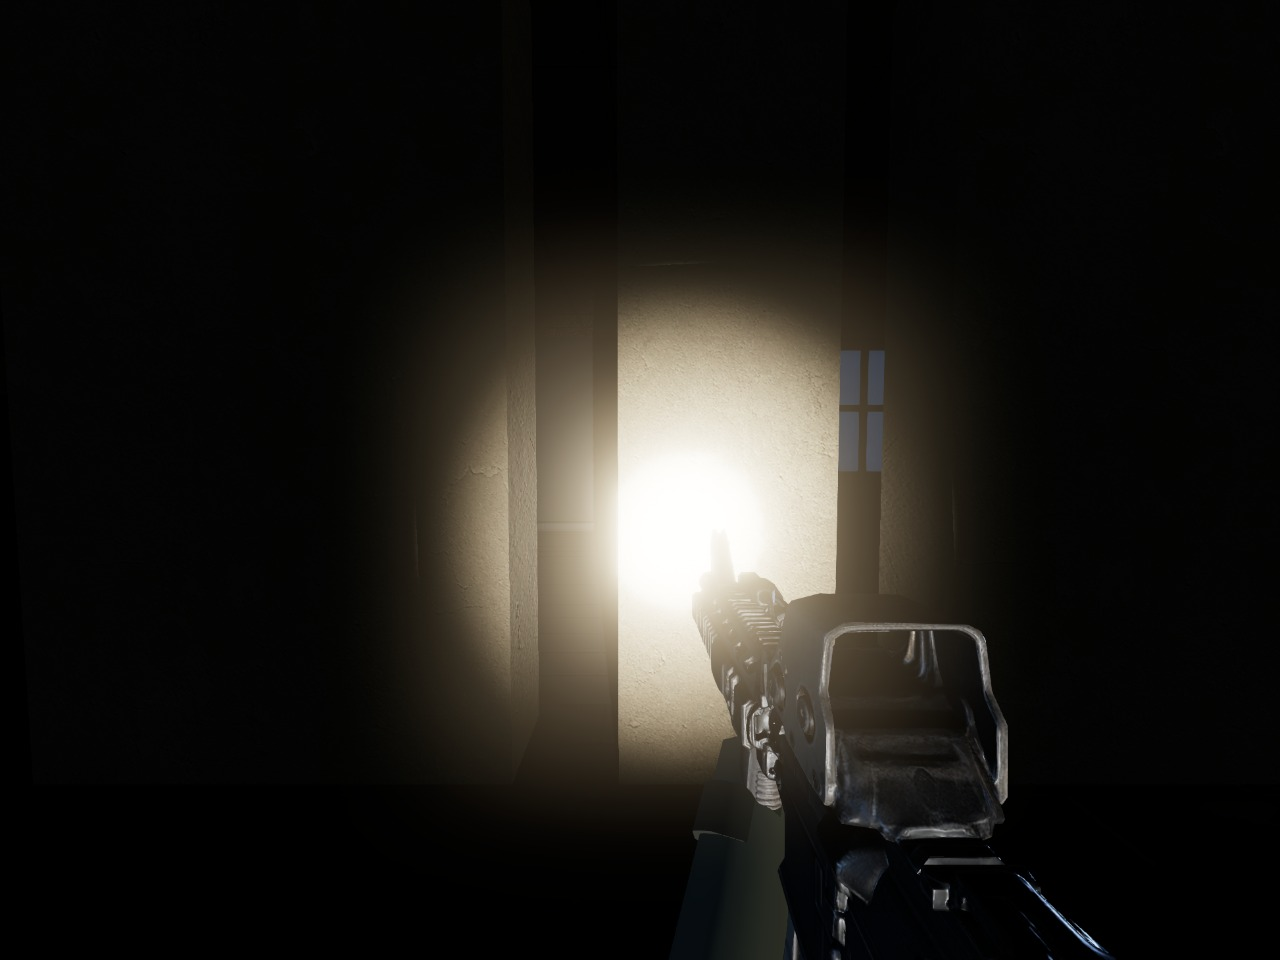
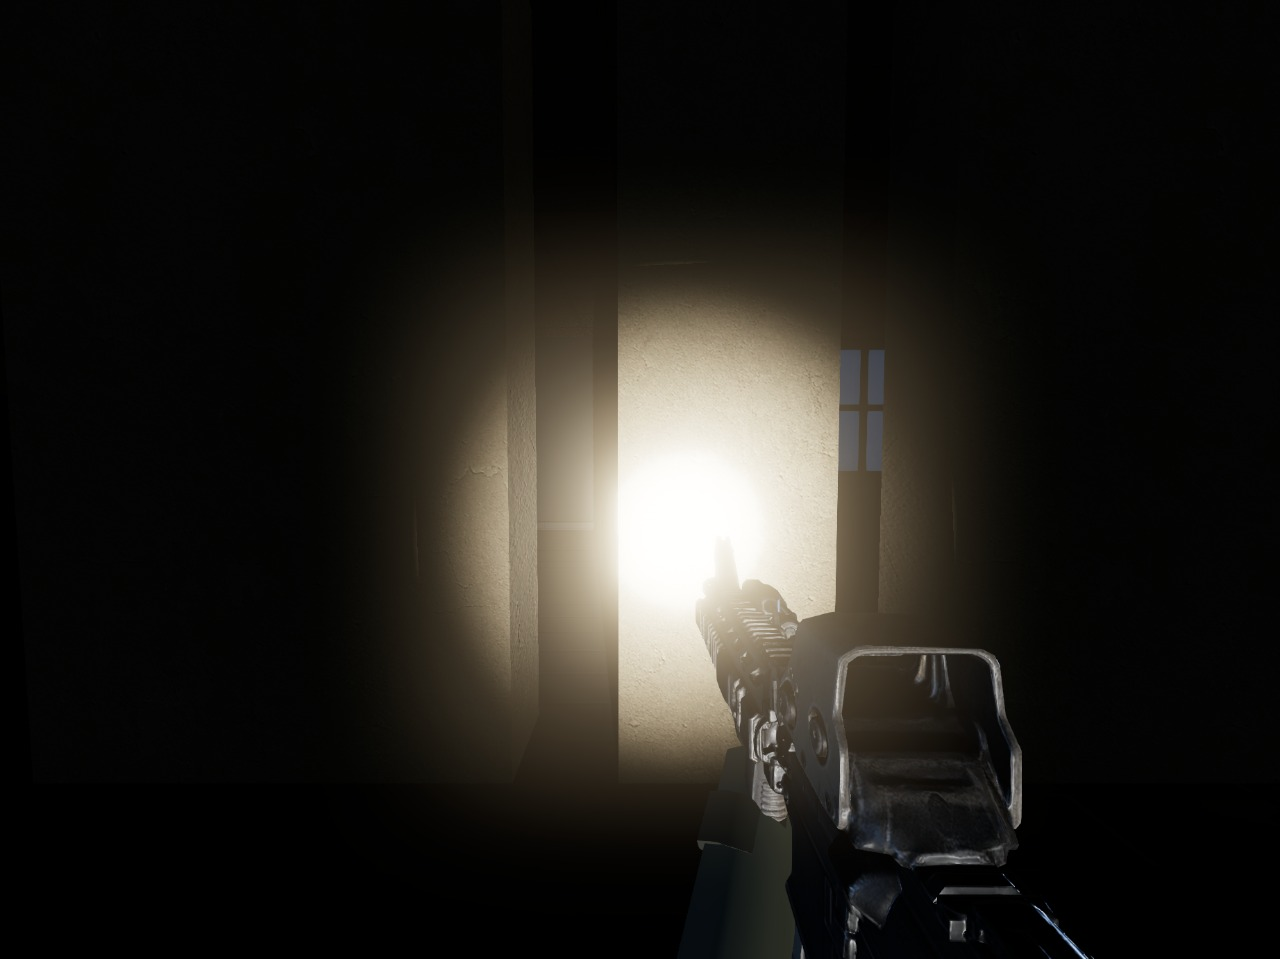
Nouveau carrelage de sol
Le damier noir et vert laisse la place a un carrelage clair use. Deux reglages
le suivent, et c'est tout ce qu'il y avait a faire : la clarte moyenne de
l'image, qui passe de vingt-cinq a soixante-trois centiemes et par laquelle la
teinte du decor est divisee, et le nombre de carreaux, qui passe de seize a
neuf, donc l'emprise de l'image pour que les carreaux gardent leur taille au
sol.

Le reste est deduit de l'image comme avant : les joints creuses viennent de son
contraste, et le poli des carreaux de leur clarte.

diff --git a/src/renderer/materials/PhotoSurfaces.ts b/src/renderer/materials/PhotoSurfaces.ts
@@ -61,15 +61,17 @@ const ROUGHNESS: Record<string, [number, number]> = {
  * Combien de fois l'image se repete sur la surface que couvrait une texture
  * peinte par le code.
  *
- * Les images n'ont pas toutes la meme emprise reelle : celle du sol porte
- * seize carreaux, celle du plafond neuf dalles, celle du mur n'a pas de motif
- * du tout. Sans ce reglage, le carrelage sortait a un metre de cote et le
- * faux plafond a trois metres.
+ * Les images n'ont pas toutes la meme emprise reelle : celle du sol porte neuf
+ * carreaux, celle du plafond neuf dalles, celle du mur n'a pas de motif du
+ * tout. Sans ce reglage, le carrelage sortait a un metre de cote et le faux
+ * plafond a trois metres. Ce chiffre suit donc l'image : changer le carrelage
+ * pour un autre qui ne porte pas le meme nombre de carreaux change la taille
+ * des carreaux au sol, et c'est ici qu'on la rattrape.
  */
 const REPEAT: Record<string, number> = {
   plaster: 0.8,
-  tile: 1.6,
-  floor: 1.6,
+  tile: 2.1,
+  floor: 2.1,
   ceiling: 1.2,
   glass: 0.5,
 };
@@ -90,8 +92,8 @@ export function photoRepeat(kind: string): number {
  */
 const LEVEL: Record<string, number> = {
   plaster: 0.6,
-  tile: 0.25,
-  floor: 0.25,
+  tile: 0.63,
+  floor: 0.63,
   ceiling: 0.64,
   glass: 0.13,
 };
